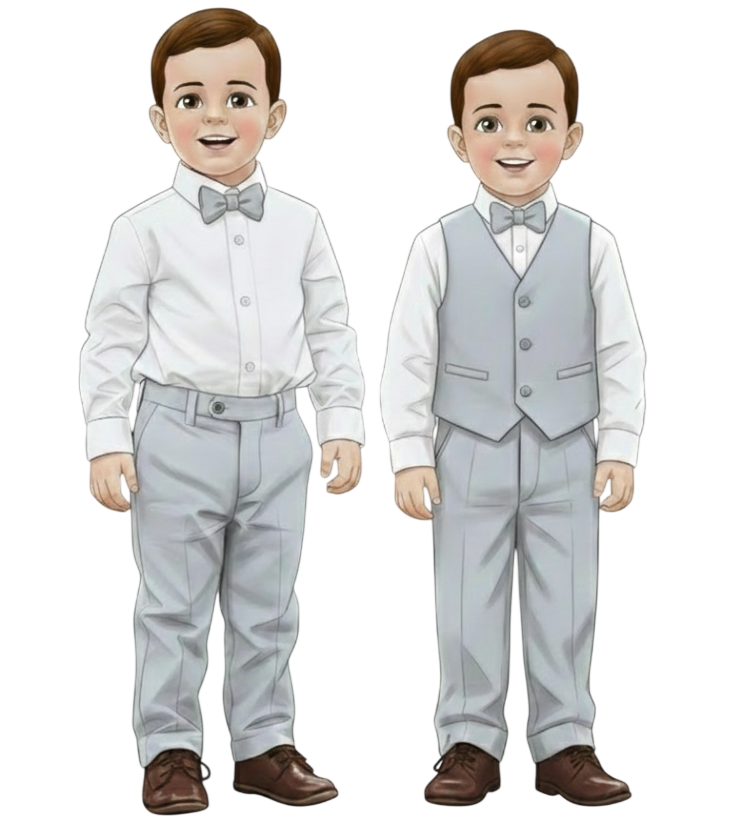
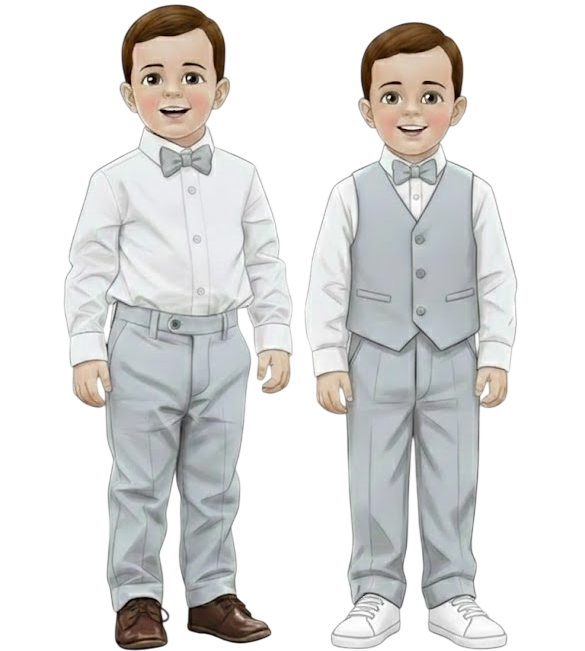
Ajustando convite

diff --git a/src/components/Noivinho/NoivinhoPg4/NoivinhoPg4.tsx b/src/components/Noivinho/NoivinhoPg4/NoivinhoPg4.tsx
@@ -20,7 +20,7 @@ const NoivinhoPg4: FC = function () {
             Sabemos que você fica lindo de qualquer forma, 
             porém gostaríamos que se inspira-se nesse modelo, 
             mas fique a vontade para escolher o seu próprio modelo de terno, desde que seja da cor cinza claro!<br/>
-            Ah... Lembre gravata de borboleta!
+            Ah... Lembre gravata de borboleta e tênis branco ou sapato marrom!
          </div>
          <div className="nomeData">
             Valdemar e Kêmilly<br />
